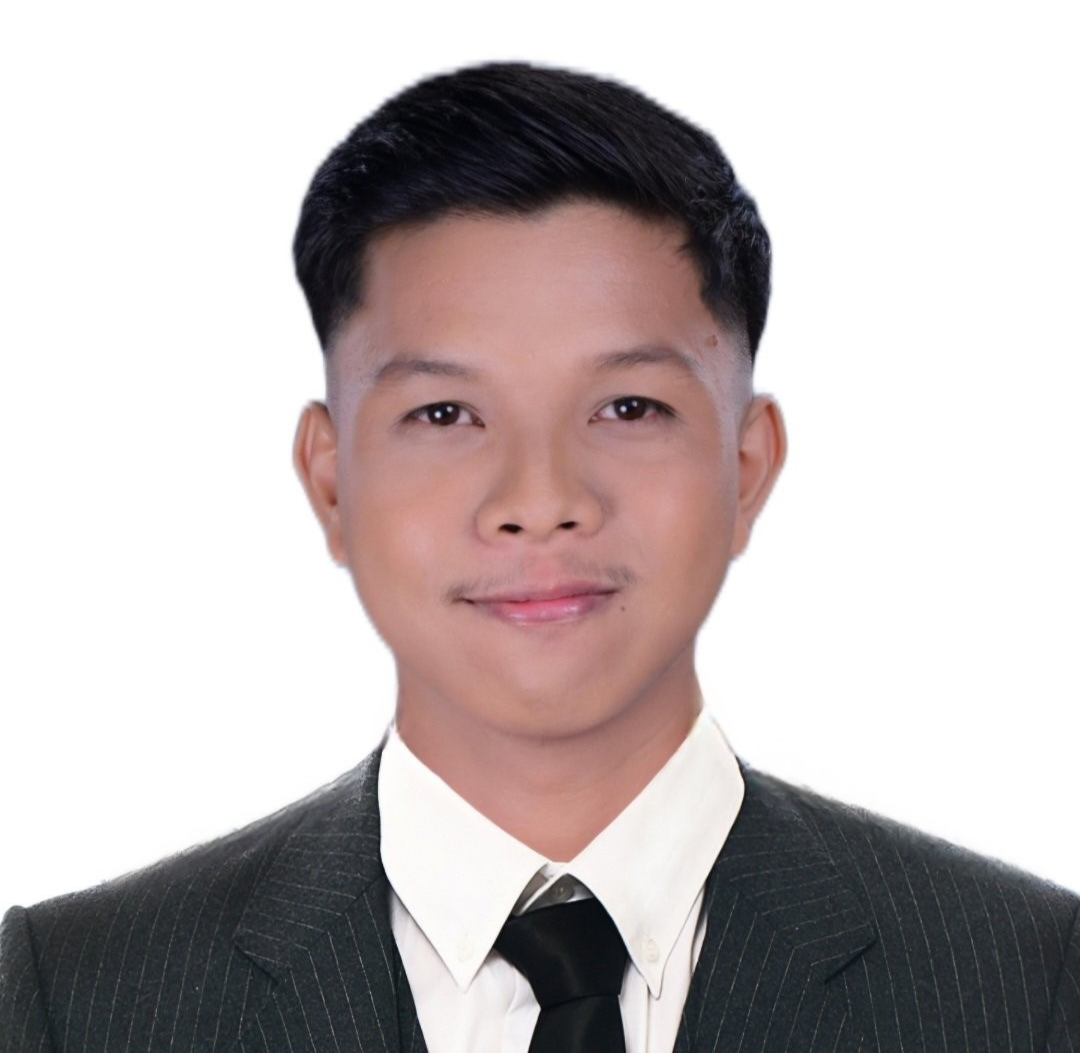
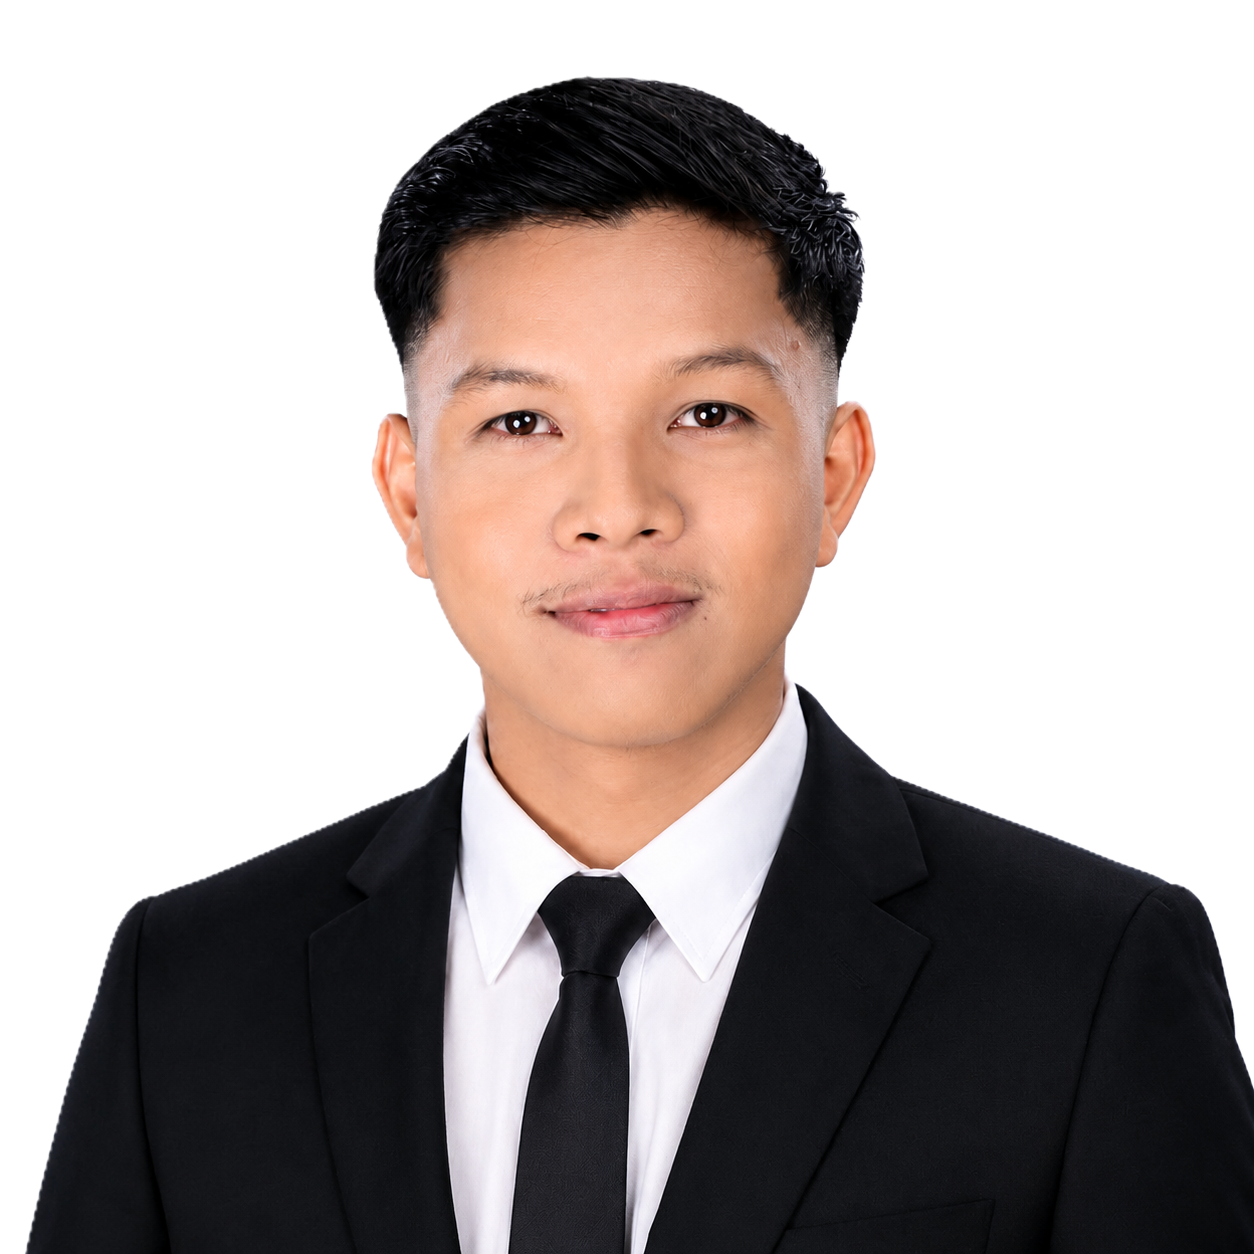
Profile picture changed

diff --git a/index.html b/index.html
@@ -44,7 +44,7 @@
     <section class="home" id="home">
 
         <div class="home-pfp-container">
-            <img src="assets/pfp.png" alt="Profile Picture">
+            <img src="assets/logo-main.png" alt="Logo">
         </div>
 
         <div class="intro-container">
@@ -116,7 +116,7 @@
         <h1 class="bg-text-name">I'm Aaron </h1>
 
         <div class="image-wrapper">
-          <img src="assets/educ-pic.png" alt="Aaron">
+          <img src="assets/pfp.png" alt="Aaron">
         </div>
 
       </div>

diff --git a/styles/tablet.css b/styles/tablet.css
@@ -59,6 +59,16 @@
     padding: 60px 30px;
   }
 
+  .intro-container {
+  display: flex;
+  flex-wrap: wrap;
+  flex-direction: row;
+  justify-content: center;
+  align-items: center;
+  width: 100%;
+  margin-left: 0;
+}
+
   .image-container {
     justify-content: center;
     margin: 0;

diff --git a/pages/about-page.html b/pages/about-page.html
@@ -60,7 +60,7 @@
       <h1 class="bg-journey">Journey</h1>
 
       <div class="image-wrapper">
-        <img src="../assets/educ-pic.png" alt="Aaron">
+        <img src="../assets/pfp.png" alt="Aaron">
       </div>
 
     </div>

diff --git a/styles/sections/about.css b/styles/sections/about.css
@@ -103,7 +103,9 @@
   position: relative;
   z-index: 3;
   display: flex;
-  justify-content: right;
+  justify-content: center;
+  margin-top: 1.5rem;
+  margin-left: 4.5rem;
 }
 
 .image-wrapper img {

diff --git a/styles/sections/home.css b/styles/sections/home.css
@@ -57,7 +57,7 @@
 }
 
 .home-pfp-container img {
-  width: 40rem;
+  width: 45rem;
   max-width: 100%;
   justify-self: center;
   border-radius: var(--radius-full);
